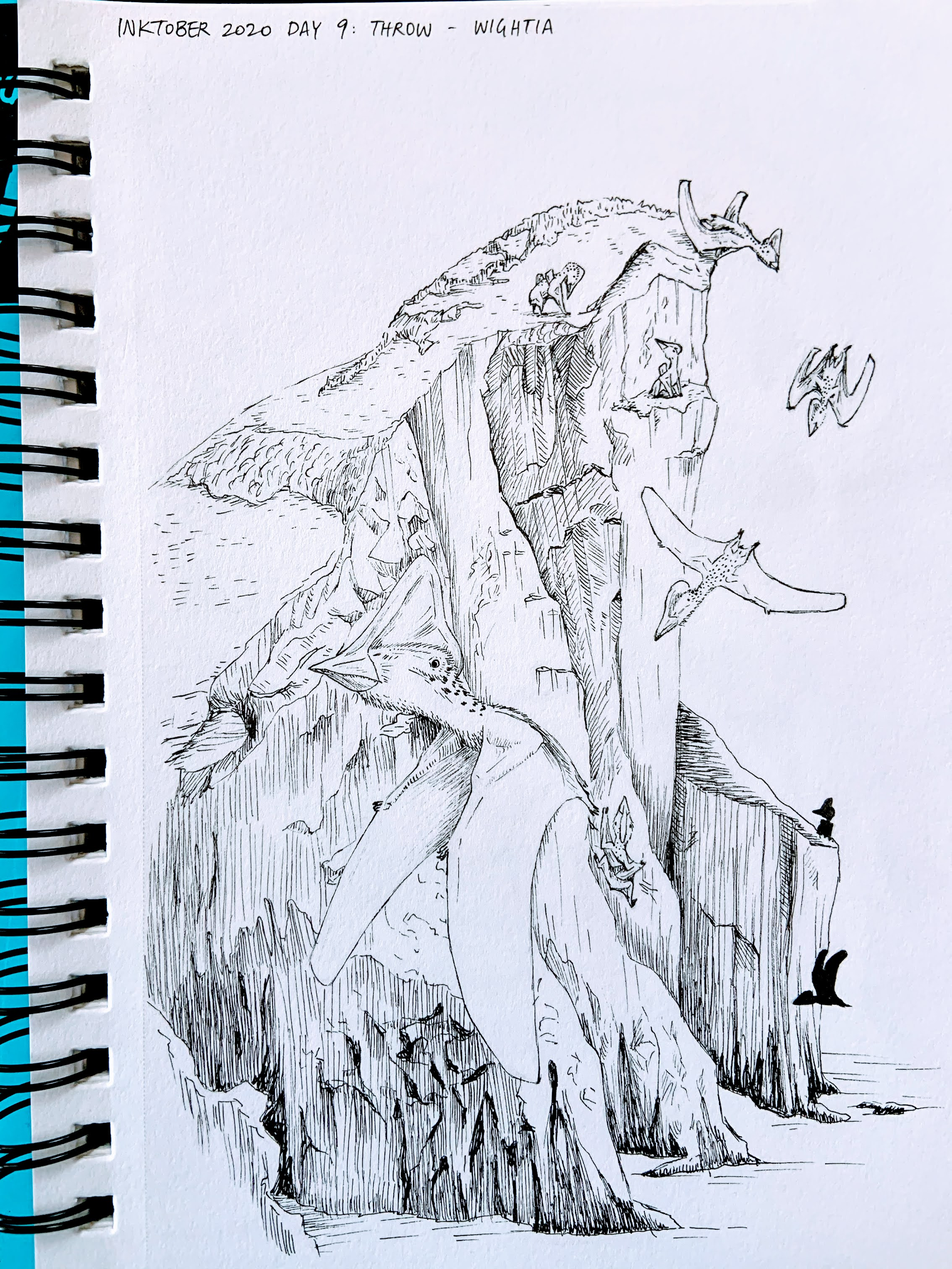
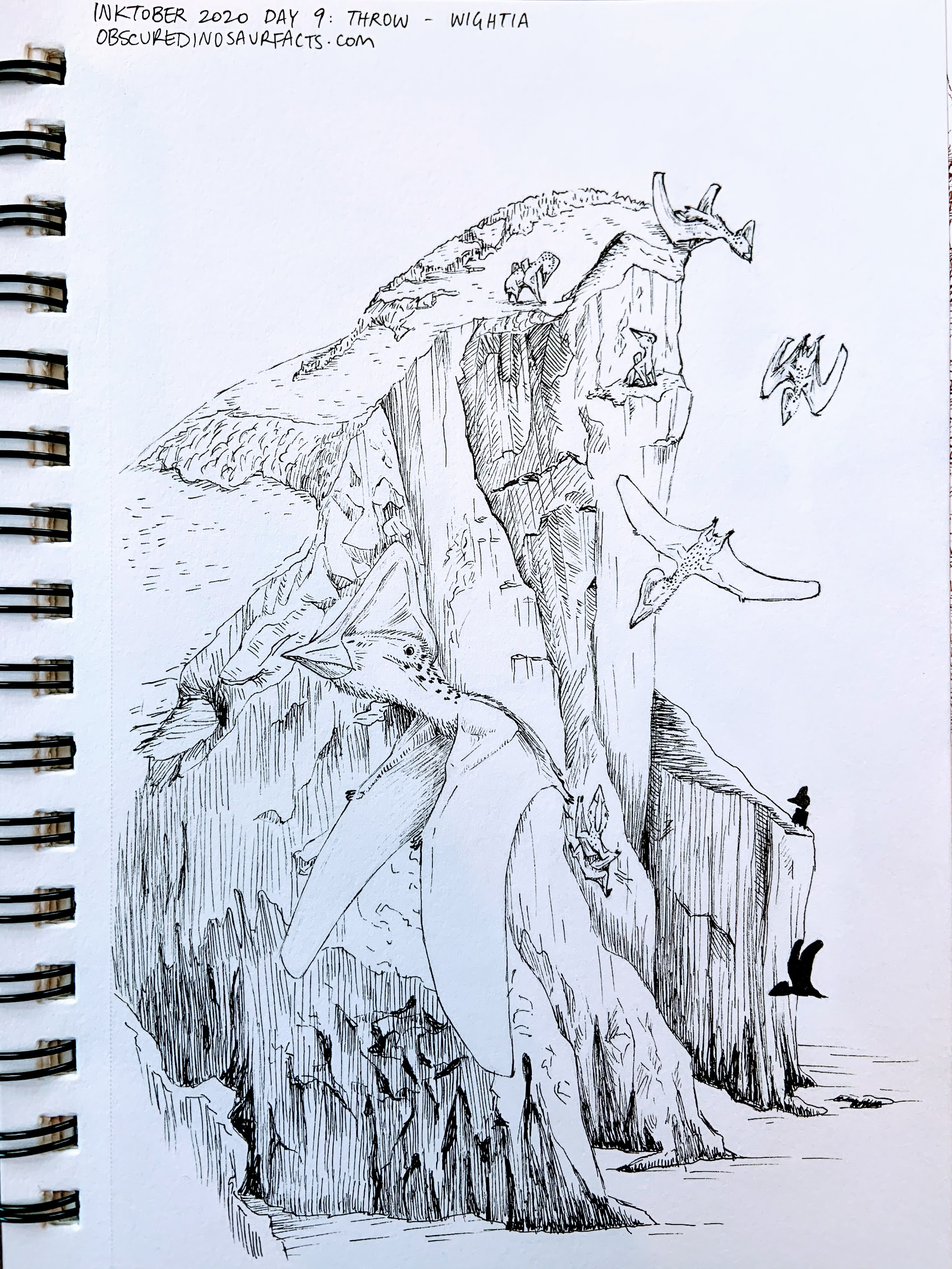
ink 2

diff --git a/_posts/2020-09-30-inktober-2.md b/_posts/2020-09-30-inktober-2.md
@@ -5,7 +5,7 @@ tags: [Paleoart, Inktober]
 date:   2020-09-30 01:40:08 -0700
 categories: blog post
 featured_image_thumbnail:
-featured_image: /assets/images/posts/ink-2020-1.jpg
+featured_image: /assets/images/posts/ink-2020-2.jpg
 featured: true
 hidden: true
 ---
@@ -16,7 +16,7 @@ It's that time of year again!  I'm really excited to compare my efforts this yea
 
 Last year I challenged myself to relate each prompt word to a Mesozoic reptile.  This year I'll do the same, but with the additional challenge of only drawing 2020 novataxa--that is, Mesozoic reptile genera named this year.  Don't worry, there are lots to choose from!
 
-Note that since it's not quite even October yet, there's only one drawing up so far.  I will update this post every day with a new one, so please check back to see more of my work later in the month!
+Note that since it's only October second, there're only two drawings up so far.  I will update this post every day with a new one, so please check back to see more of my work later in the month!
 
 #### Day 1: Fish
 ![fish](/assets/images/posts/ink-2020-1.jpg)
@@ -25,12 +25,12 @@ It's the new istiodactylid pterosaur, *Luchibang*, canopy feeding for the abunda
 
 The holotype of *Luchibang* was found with one *Lycoptera* between its jaws and two more in its stomach, so it probably did hunt these common little fish.
 
-<!--#### Day 2: Wisp
+#### Day 2: Wisp
 ![wisp](/assets/images/posts/ink-2020-2.jpg)
 
 *Overoraptor* was a maniraptoran dinosaur from Late Cretaceous Argentina that shows a novel mix of traits found in dromaeosaurs ("raptor" dinosaurs) and birds.  It had long, flight-adapted arms like a bird, but also long, running-adapted, sickle-clawed legs, like a dromaeosaur.  Its name means "piebald thief," because the holotype bones looked piebald.  However, lots of modern birds exhibit alternative colorings (melanism, albinism, leucism, and piebaldism), so I made my *Overoraptor* actually piebald on the outside.  The pose and feathering are inspired by the photo I took of a greylag goose that had just finished preening itself, and had wisps of downy feathers stuck to its beak.  Check out last week's [post](https://obscuredinosaurfacts.com/blog/post/2020/09/23/dinophoto2.html) to see that photo and more.  Modern birds spend tons of time preening themselves, so I'd expect at least the more birdlike of the non-avian dinosaurs to have engaged in similar behavior.
 
-#### Day 3: Bulky
+<!--#### Day 3: Bulky
 ![bulky](/assets/images/posts/ink-2020-3.jpg)
 
 Here's *Yamanasaurus* and *Analong*, two newly discovered sauropods, showing off their different gaits.  *Yamanasaurus* was a saltasaurine titanosaur from Late Cretaceous Ecuador, and *Analong* was a mamenchisaurid from Middle Jurassic China.
@@ -164,4 +164,33 @@ Primitive feathers would not have been nearly as good as modern birds' feathers 
 
 *Xunmenglong*, a teeny-tiny compsognathid from Early Cretaceous China, gets caught in a death trap.  The web owner will feast on this oversized prize for days!
 
-Compsognathids were the dinosaur version of rats: small generalists that closely resemble the ancestral form.-->
+Compsognathids were the dinosaur version of rats: small generalists that closely resemble the ancestral form.
+
+#### Day 19: Dizzy
+![dizzy](/assets/images/posts/ink-2020-19.jpg)
+
+Them dragon-horses be tripping!
+
+A pair of *Riabininohadros* (an iguanodont from Late Cretaceous Ukraine) share some psychedelic mushrooms.  Reindeer are known to purposefully consume the mind-altering *Amanita muscaria* and even fight each other over mushroom availability; this is just one example of [drug use among animals](https://i.imgur.com/0peuxOk.jpg).  I wouldn't be surprised if non-avian dinosaurs liked to feel good sometimes too.
+
+#### Day 20: Coral
+![coral](/assets/images/posts/ink-2020-20.jpg)
+
+*Vallibonavenatrix* is a new genus of spinosaurid from Early Cretaceous Spain.  With the new *Spinosaurus* swimmy tail discovered this year, we now know that these dinosaurs were even more convergent with crocs than previously thought.  Giving *Vallibonavenatrix* a laterally compressed tail makes her look just like a long-legged saltwater crocodile.
+
+#### Day 21: Sleep
+![sleep](/assets/images/posts/ink-2020-21.jpg)
+
+Here's the new small basal ornithopod, *Changmiania*, from Early Cretaceous China.  This dinosaur is known from two beautifully-preserved complete skeletons that were buried intact when their burrows collapsed.  Further evidence for a fossorial lifestyle includes adaptations such as a shovel-like snout and extended shoulder blades for anchoring powerful arm muscles.  The name means "eternal sleep," since the skeletons were preserved in lifelike sleeping positions.
+
+The ["official" reconstruction](https://www.smithsonianmag.com/smart-news/new-species-burrowing-dinosaur-discovered-china-180975903/) of the holotype shows a fluffy, but somewhat skinny, dinosaur, whose anatomy is easily digestible by the viewer; I wanted to take a different approach.  My *Changmiania* is a dinosaur equivalent to the [golden mole](https://alphynix.tumblr.com/post/619929572405821442/arsanatomica-the-chronicles-of-potato-mole), which is a bizarre, eyeless, iridescent, potatolike afrotherian from the deserts of southern Africa whose skeleton looks like that of a perfectly normal-shaped small mammal.  Check out the [inside view]()!
+
+#### Day 22: Chef
+![chef](/assets/images/posts/ink-2020-22.jpg)
+
+"Chef" was a difficult one to relate to dinosaurs, since animals don't do a lot of food preparation.  The only things I could think of were burying food and digging it up later, like a dog, monkey, or corvid, and washing food like a raccoon.  The latter is more of a chef-like behavior, since burying food is arguably just for the purpose of caching rather than food preparation.  So here's *Dineobellator* (meaning "Navajo warrior"), the new velociraptorine from Latest Cretaceous New Mexico, washing *Meniscoessus*, a multituberculate mammal.
+
+A couple things were challenging about this piece.  As an adaptation for grasping items without the primary feathers getting in the way, my *Dineobellator* has its primaries held more perpendicular to the hand rather than fanned forward.  I also was having a hard time with the perspective--I meant for the gray part behind the white eyespots to be his neck, but it ended up looking more like a big domed cranium.
+
+I guess drawing dinosaurs from front or back view is another theme this Inktober.
+->>
